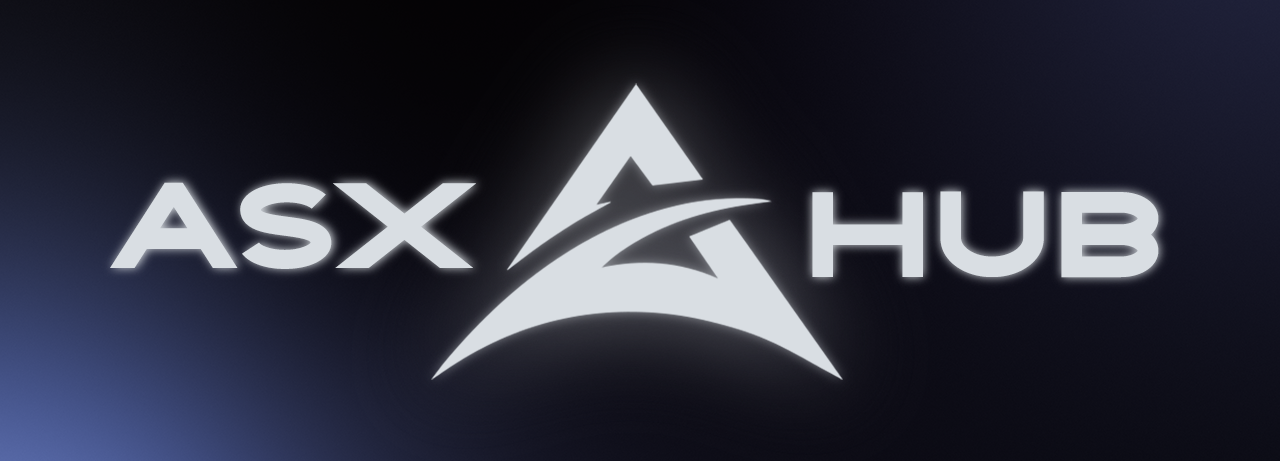
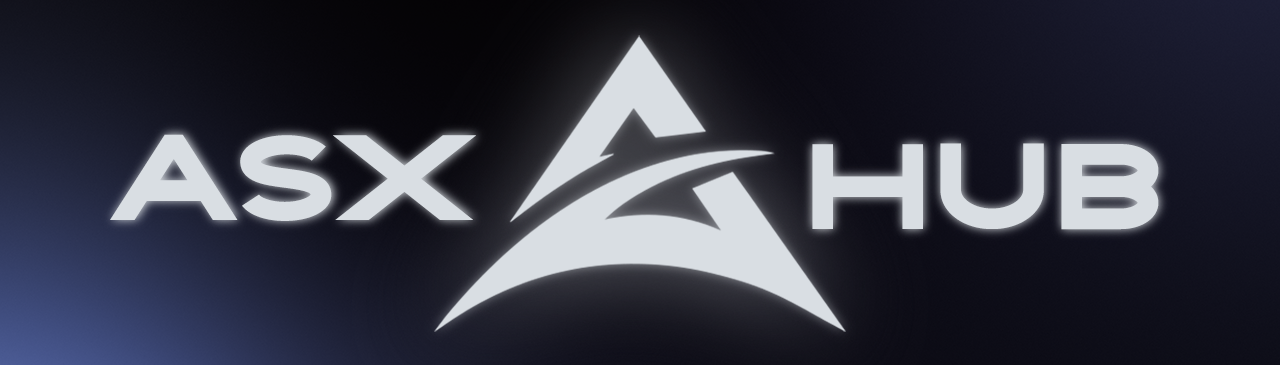
New design

diff --git a/README.md b/README.md
@@ -4,7 +4,7 @@
 <br />
 <div align="center">
   <a href="https://github.com/ALFiX01/ASX_Hub">
-    <img src="https://github.com/ALFiX01/ASX_Hub/blob/main/Files/Images/Design-github.png?raw=true" alt="ASX Hub" width="800">
+    <img src="https://github.com/ALFiX01/ASX_Hub/blob/main/Files/Images/Design.png?raw=true" alt="ASX Hub" width="860">
   </a>
   <h3 align="center">ASX Hub</h3>
 
